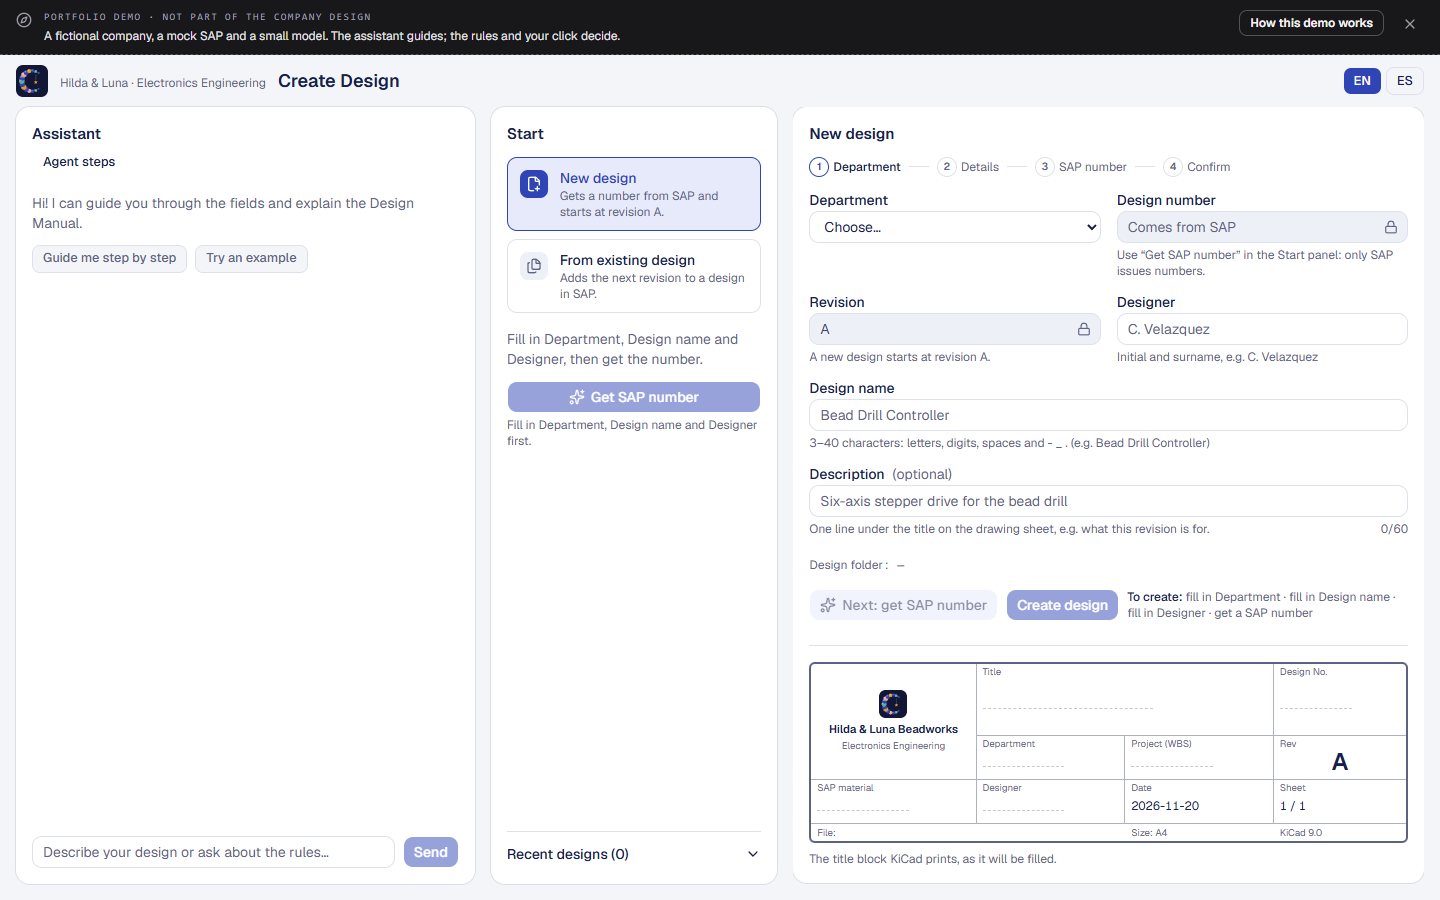
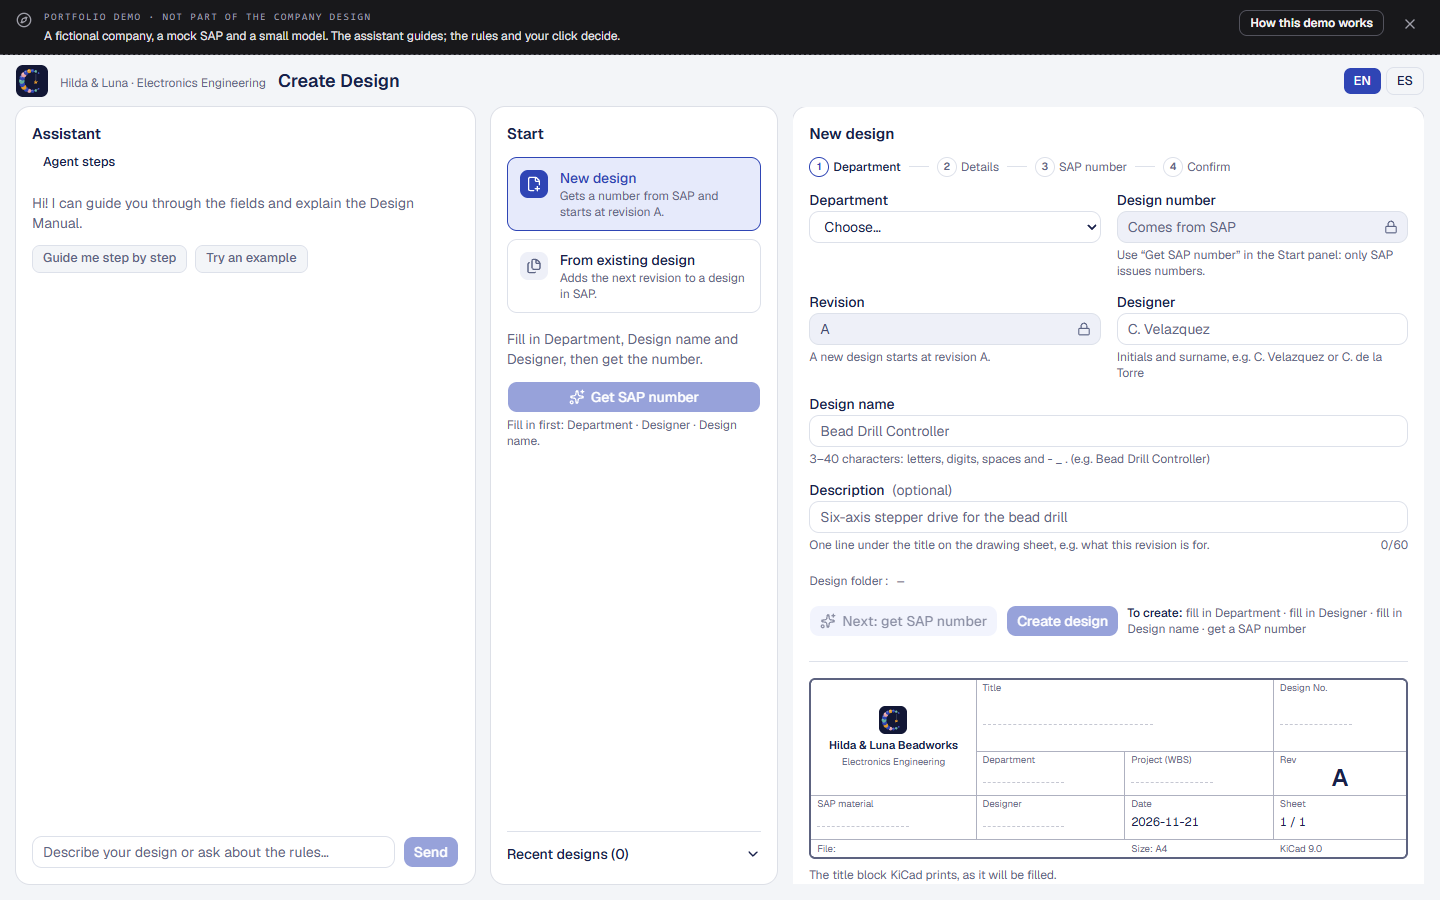
docs: regenerate showcase screenshots and GIF with real KiCad; add the cited manual answer shots
The e2e harness answers a question (ending in ?) with a cited reply after the backend's
own manual search; the phone shot runs first so its card for revision C is valid.

diff --git a/e2e/tests/showcase.spec.ts b/e2e/tests/showcase.spec.ts
@@ -23,6 +23,19 @@ async function shot(page: Page, name: string) {
   await page.screenshot({ path: join(OUT, `${name}.png`) })
 }
 
+// First: the script proposes revision C, which the next test creates.
+test('phone: design and assistant tabs', async ({ page }) => {
+  await page.setViewportSize(PHONE)
+  await page.goto('/')
+  await shot(page, 'phone-design')
+  const tabs = page.getByRole('tablist', { name: 'Sections' })
+  await tabs.getByRole('tab', { name: /Assistant/ }).click()
+  await page.getByLabel(/describe your design/i).fill('Revision C of the bead sorter vision board')
+  await page.getByRole('button', { name: 'Send' }).click()
+  await expect(page.getByRole('region', { name: 'SAP record' })).toBeVisible()
+  await shot(page, 'phone-assistant')
+})
+
 test('desktop: start, the assistant picks an existing design, confirm, preview dialog', async ({ page }) => {
   test.setTimeout(120_000)
   await page.setViewportSize(DESKTOP)
@@ -61,16 +74,18 @@ test('desktop in Spanish: a new design with an inline rule message', async ({ pa
   await shot(page, 'desktop-es-inline-check')
 })
 
-test('phone: design and assistant tabs', async ({ page }) => {
-  await page.setViewportSize(PHONE)
+test('desktop: a question about the rules, answered with a manual reference', async ({ page }) => {
+  await page.setViewportSize(DESKTOP)
   await page.goto('/')
-  await shot(page, 'phone-design')
-  const tabs = page.getByRole('tablist', { name: 'Sections' })
-  await tabs.getByRole('tab', { name: /Assistant/ }).click()
-  await page.getByLabel(/describe your design/i).fill('New controller board for the drilling machine, Hardware.')
+  await page.getByLabel(/describe your design/i).fill('When do I need a new revision instead of a new design number?')
   await page.getByRole('button', { name: 'Send' }).click()
-  await expect(page.getByRole('region', { name: 'SAP record' })).toBeVisible()
-  await shot(page, 'phone-assistant')
+  const ref = page.getByRole('button', { name: '[01-design-numbering#new-number-or-revision]' })
+  await expect(ref).toBeVisible()
+  await shot(page, 'desktop-manual-answer')
+
+  await ref.click()
+  await expect(page.getByRole('dialog').getByText(/can replace the old one/)).toBeVisible()
+  await shot(page, 'desktop-manual-passage')
 })
 
 /**

diff --git a/e2e/harness.py b/e2e/harness.py
@@ -1,7 +1,8 @@
 """The backend for the browser tests: the real app with two stand-ins.
 
 - The model is a scripted `FakeClient`: one chat turn fills the form, looks the design
-  up in SAP and opens a confirmation card. No Ollama, no key.
+  up in SAP and opens a confirmation card; a question (ending in `?`) gets an answer that
+  cites the manual passage the backend's own search returned. No Ollama, no key.
 - `kicad-cli` is a stub that writes a small PDF and SVG, so the test needs no KiCad.
   `E2E_REAL_KICAD=1` (with `KICAD_CLI` set) uses the real one, for the showcase images.
 
@@ -32,6 +33,7 @@ sys.path.insert(0, str(ROOT / "backend"))
 import uvicorn  # noqa: E402
 
 from app.api import deps  # noqa: E402
+from app.llm.base import ChatTurn, LLMClient, Message, ToolSpec  # noqa: E402
 from app.llm.fake import FakeClient, call, say  # noqa: E402
 from app.main import app  # noqa: E402
 
@@ -60,6 +62,31 @@ def script() -> FakeClient:
     )
 
 
+ANSWER = (
+    "Keep the number and make a new revision when you change the same design and the new "
+    "board can replace the old one. Ask SAP for a new number when the function changes, "
+    "it is a different product, or the new board can't replace the old one "
+    "[01-design-numbering#new-number-or-revision]."
+)
+
+
+class Scripted(LLMClient):
+    """Picks the script from the user's message on the first call of a turn."""
+
+    provider, model = "fake", "scripted"
+
+    def __init__(self) -> None:
+        self._client: FakeClient | None = None
+
+    def chat(self, messages: list[Message], tools: list[ToolSpec]) -> ChatTurn:
+        if self._client is None:
+            user = next(m.content for m in reversed(messages) if m.role == "user")
+            chat = user.split('<user_data kind="chat">', 1)[-1].split("</user_data>", 1)[0]
+            question = chat.strip().endswith("?")
+            self._client = FakeClient([say(ANSWER)]) if question else script()
+        return self._client.chat(messages, tools)
+
+
 def stub_kicad_cli(command, **kwargs):
     output, schematic = Path(command[command.index("--output") + 1]), Path(command[-1])
     if command[3] == "pdf":
@@ -69,7 +96,7 @@ def stub_kicad_cli(command, **kwargs):
     return subprocess.CompletedProcess(command, 0, "Plotted.", "")
 
 
-app.dependency_overrides[deps.llm_factory_dep] = lambda: script
+app.dependency_overrides[deps.llm_factory_dep] = lambda: Scripted
 if not os.environ.get("E2E_REAL_KICAD"):
     app.dependency_overrides[deps.runner_dep] = lambda: stub_kicad_cli
 

diff --git a/README.md b/README.md
@@ -155,6 +155,8 @@ cd backend && python -m app.cli agent-eval --fake      # the CI suite
 | Start: chat, Start panel, form and a live title-block preview | The assistant filled the form; a card waits for Confirm |
 | ![The SAP design list with status badges](docs/showcase/desktop-existing-list.png) | ![Spanish UI with an inline rule message and its manual reference](docs/showcase/desktop-es-inline-check.png) |
 | A new revision of an existing SAP design | Spanish, with an inline rule and its manual section |
+| ![A question about the rules answered with a manual reference](docs/showcase/desktop-manual-answer.png) | ![The cited manual passage opened from the answer](docs/showcase/desktop-manual-passage.png) |
+| A rule question, answered with a manual reference | Click the reference: the passage from the Design Manual |
 
 <p>
   <img src="docs/showcase/phone-design.png" alt="Phone: the design tab" width="260">

diff --git a/CHANGELOG.md b/CHANGELOG.md
@@ -55,7 +55,10 @@ The format follows [Keep a Changelog](https://keepachangelog.com/en/1.1.0/).
     gets 3 short passages. Citations with Unicode dashes are normalized.
   - `LLM_PROVIDER=demo`: a rule-based demo assistant. It answers FAQ questions with a
     citation, fills the form from a sentence and opens the card when valid.
-  - Manual references open their passage (`GET /api/manual/{lang}/{document}/{anchor}`).
+  - Manual references open their passage (`GET /api/manual/{lang}/{document}/{anchor}`),
+    rendered with its lists, tables, bold and code (no raw Markdown, no HTML).
+  - README screenshots and GIF regenerated with real KiCad, plus a cited manual answer
+    and its passage.
   - 16 FAQ eval scenarios (EN and ES; `cite_any`, `language`), `agent-eval --provider
     demo`, `--preretrieval` and `--few-shot`.
   - `start.cmd` and `start.sh` offer to stop a process that holds port 8000 or 8100.

diff --git a/PLAN-phase-9-review-and-faq.md b/PLAN-phase-9-review-and-faq.md
@@ -317,7 +317,8 @@ CI; `AGENT_FEW_SHOT` / `--few-shot` for the Ollama A/B; `[ref]` opens the passag
 Phase 9 entry. **Ollama A/B done:** off 24/49, auto 34/49, few-shot 38/49 but leaks, so few-shot stays off;
 linked sections now count as returned (0026 items 7-8). **Pending:** Groq run and token
 measurement after the quota reset (commands in `docs/eval/README.md`); the user's `.env`
-duplicate `LLM_PROVIDER`; README screenshots not regenerated.
+duplicate `LLM_PROVIDER`. **README screenshots and GIF regenerated** (2026-11-21, real KiCad;
+2 new shots: a cited manual answer and its passage, now rendered as formatted text).
 
 1. **FAQ scenarios** in `evals/scenarios.py`: about 15 grouped scenarios (numbers, revisions,
    statuses, name/designer, files/KiCad, cards/app), each in EN and ES, from
